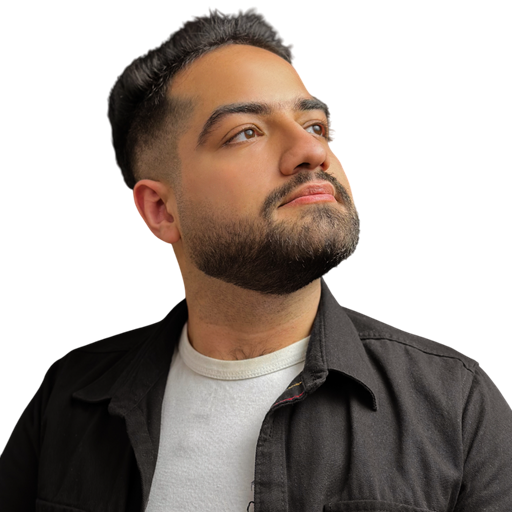
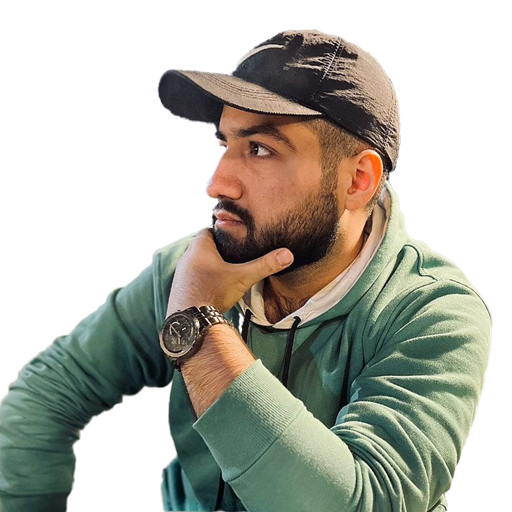
improved home page and image changer style, added more image

diff --git a/components/shared/ImageChanger.tsx b/components/shared/ImageChanger.tsx
@@ -3,13 +3,16 @@
 import Image from "next/image";
 import { useState, useEffect } from "react";
 import { motion, AnimatePresence } from "framer-motion";
+import { cn } from "@/utils";
 
 interface ImageChangerProps {
     images: string[];
     interval?: number; // Optional prop for flexibility
+    className?: string;
 }
 
-const ImageChanger = ({ images, interval = 3000 }: ImageChangerProps) => {
+const ImageChanger = (props: ImageChangerProps) => {
+    const { images, interval = 5000 } = props;
     const [index, setIndex] = useState(0);
 
     useEffect(() => {
@@ -23,7 +26,13 @@ const ImageChanger = ({ images, interval = 3000 }: ImageChangerProps) => {
     }, [images, interval]);
 
     return (
-        <div className="bg-white relative size-72 sm:size-80 rounded-full overflow-hidden shadow-2xl">
+        <div
+            className={cn(
+                `bg-gradient-to-b from-white to-drd-primary-75
+                relative size-72 sm:size-80 min-w-72 min-h-72
+                rounded-[50%] overflow-hidden shadow-2xl aspect-square`,
+                props.className
+            )}>
             <AnimatePresence mode="wait">
                 <motion.div
                     key={index}
@@ -31,19 +40,19 @@ const ImageChanger = ({ images, interval = 3000 }: ImageChangerProps) => {
                     animate={{ opacity: 1, scale: 1, x: 0, rotate: 0 }}
                     exit={{ opacity: 0, scale: 1.1, x: -50, rotate: 10 }}
                     transition={{
-                        duration: 1,
-                        ease: "easeInOut",
+                        duration: 0.5,
+                        damping: 15,
                         type: "spring",
                         stiffness: 100,
-                        damping: 15,
+                        ease: "easeInOut",
                     }}
-                    className="absolute inset-0">
+                    className="absolute inset-0 w-full">
                     <Image
                         fill
                         priority
                         src={images[index]}
                         alt="Pouria Darandi"
-                        className="object-cover"
+                        className="object-cover w-full"
                     />
                 </motion.div>
             </AnimatePresence>

diff --git a/app/(general)/page.tsx b/app/(general)/page.tsx
@@ -1,19 +1,26 @@
+import { Button } from "@/components/ui";
 import { ImageChanger, SkillsWriter } from "@/components/shared";
 
 const Homepage = () => {
     const skills = ["Vue.js", "React", "Next.js", "Django", "Unity"];
-    const images = ["/images/pouria/pouria.png", "/images/pouria/pouria-2.png"];
+    const images = [
+        "/images/pouria/pouria.png",
+        "/images/pouria/pouria-2.png",
+        "/images/pouria/pouria-3.png",
+    ];
 
     return (
-        <div
-            className="flex flex-col items-center justify-center gap-8
-            w-full py-4 sm:py-8 h-[80dvh] sm:h-auto">
+        <div className="flex flex-col items-center justify-center gap-4 w-full py-4">
             <ImageChanger images={images} />
 
-            <div className="flex flex-col items-center text-center gap-2 w-full">
-                <h1 className="title-medium">پوریا دارندی</h1>
+            <div className="flex flex-col items-center text-center gap-2 w-full mt-4 r2l">
+                <h1
+                    className="text-drd-neutral-950 text-3xl
+                    sm:text-3xl md:text-4xl lg:text-4xl font-bold">
+                    پوریا دارندی
+                </h1>
                 <SkillsWriter skills={skills} />
-                <p className="relative text-p-medium text-center leading-relaxed r2l max-w-2xl">
+                <p className="relative text-p-medium text-center leading-relaxed max-w-2xl">
                     متولد ۱۴ بهمن ۱۳۸۰، برنامهنویسی را از دی ۱۳۹۹ به صورت
                     خودآموز با پایتون شروع کردم. سپس از تیر ۱۴۰۰ تا دی ۱۴۰۱ در
                     مجتمع فنی تهران، دورههای الگوریتمهای C++ و پایتون را با
@@ -23,6 +30,10 @@ const Homepage = () => {
                     فراییت با Django، React، Next.js و Vue.js کار کردم و از
                     مرداد ۱۴۰۳ در شرکت عصر دانشافزار مشغول به کار هستم.
                 </p>
+            </div>
+
+            <div className="mb-2">
+                <Button href="/contact-me">ارسال پیام</Button>
             </div>
         </div>
     );

diff --git a/app/assets/styles/globals.css b/app/assets/styles/globals.css
@@ -34,7 +34,8 @@
 
 body {
     font-family: var(--font-peyda), Arial, Helvetica, sans-serif;
-    @apply bg-gradient-to-b bg-drd-primary-25  from-drd-primary-25 from-10% to-white;
+    @apply bg-gradient-to-b bg-drd-primary-25 
+    /* from-drd-primary-25 from-10% to-white; */;
 }
 
 .r2l {
